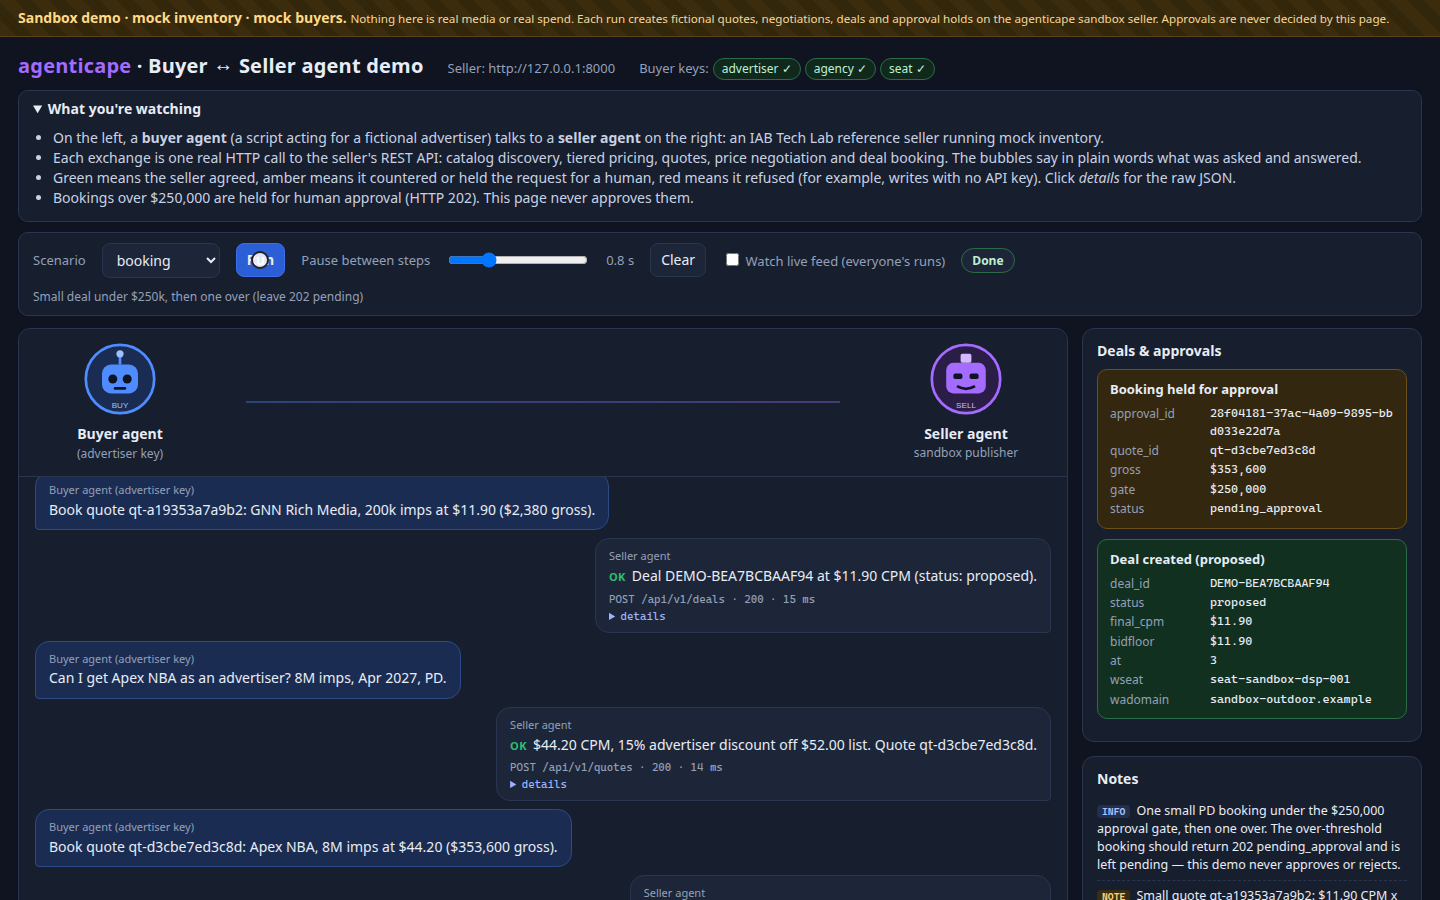
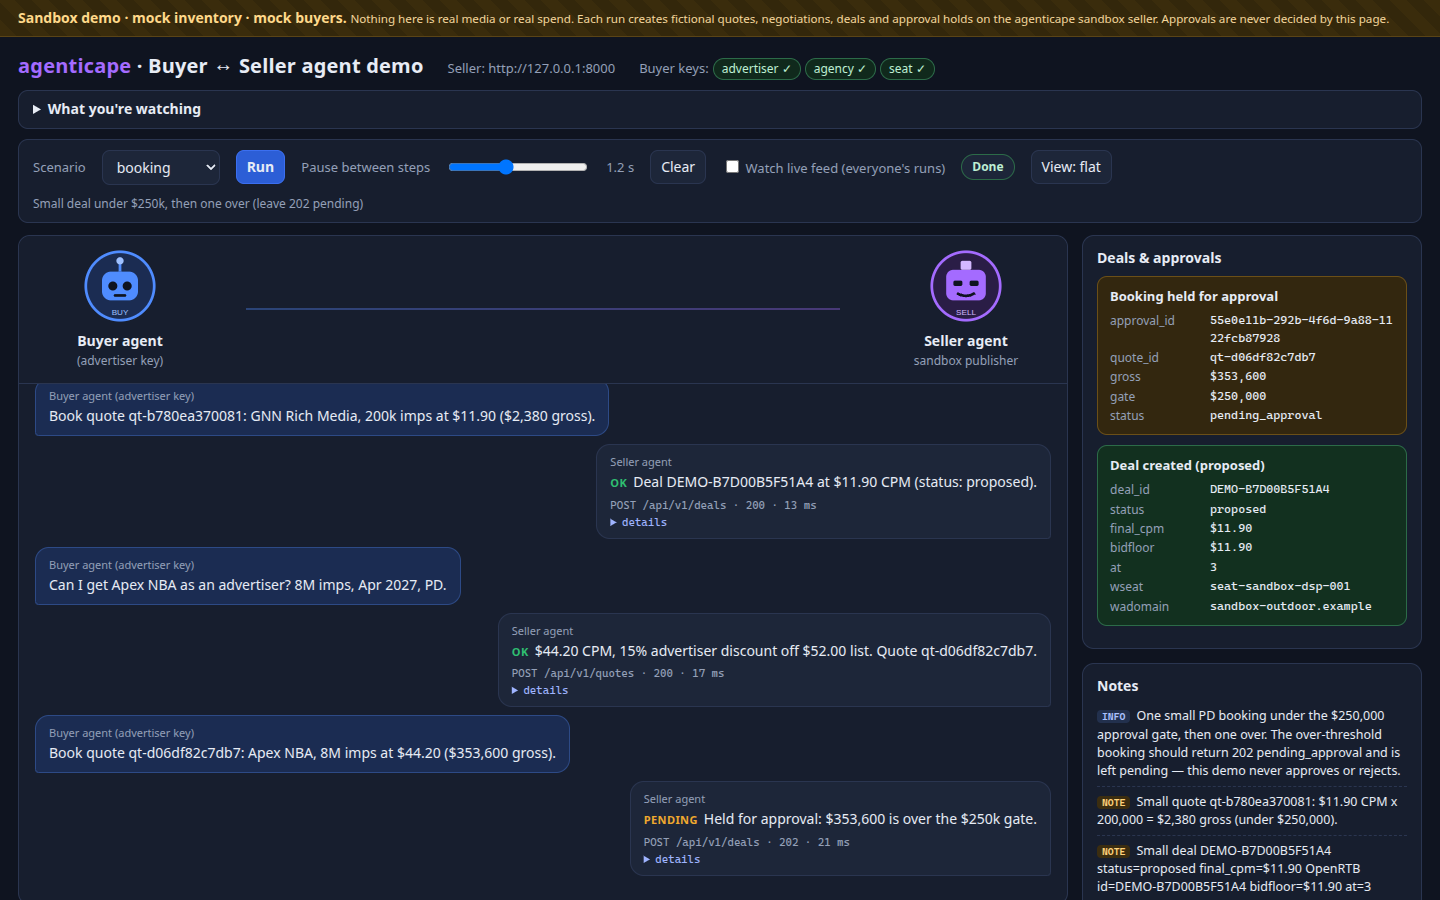
examples/buyer-demo: document the 3D view and refresh screenshots
README and RUN.md describe the blocky 3D default, the View toggle, the
automatic flat fallback without WebGL, reduced motion and the vendored,
offline three.js. DEPLOY.md notes that the image now copies static/.
docs/ui-3d.png is new, and docs/ui-booking.png is refreshed. Both show the
booking scenario against a local mock-only sandbox seller.

Changed region(s): [[0.0, 0.1244, 0.9375, 1.0], [0.75, 0.28, 1.0, 1.0]]

diff --git a/examples/buyer-demo/README.md b/examples/buyer-demo/README.md
@@ -41,17 +41,30 @@ uv run python buyer_demo.py --ui            # opens http://127.0.0.1:8765/
 ```
 
 A local page shows the buyer agent on the left and the seller agent on the
-right. Each HTTP call becomes a pair of speech bubbles in plain words ("Can I
+right. By default they stand on a small blocky 3D island: the buyer in a blue
+suit with a briefcase, the seller behind a market stall. A glowing packet arcs
+between them for each call, booked deals pop onto the stall as gold blocks,
+approval holds appear as padlock blocks, and a refused call gets crossed arms
+and a red X. Drag to turn the camera and scroll to zoom. The **View** button
+switches to the flat 2D chat view, and the page remembers your choice.
+Browsers without WebGL get the flat view automatically.
+
+Each HTTP call becomes a pair of speech bubbles in plain words ("Can I
 get Apex NBA as an advertiser? 8M imps, Apr 2027" / "Held for approval:
 $353,600 is over the $250k gate"), coloured green (agreed), amber (counter or
 held for approval) or red (refused). Under each reply are the method, path,
 status and latency, plus a click-to-expand of the raw request and response.
 A side panel shows deal and approval cards and the running notes. Pick a
 scenario, set the pause between steps (0 to 3 s), and press **Run**. The page
-is plain HTML with no CDN, so it works offline. Keys never reach the browser.
+is plain HTML with no CDN and no build step, so it works offline: three.js r170
+is vendored as one file in `static/` (MIT, licence header kept), and all the
+block and character textures are drawn procedurally in the browser. Keys never
+reach the browser.
 The `runs/` logs are written exactly as for the CLI.
 
-![Buyer demo UI: booking scenario against a local sandbox seller](docs/ui-booking.png)
+![Buyer demo UI, blocky 3D view: booking scenario against a local sandbox seller](docs/ui-3d.png)
+
+![Buyer demo UI, flat view: the same booking scenario](docs/ui-booking.png)
 
 The same page is hosted for anyone at <https://iab-buyer.agenticape.ai>
 (`--serve` mode, with a per-visitor rate limit and a run queue). See

diff --git a/examples/buyer-demo/RUN.md b/examples/buyer-demo/RUN.md
@@ -174,8 +174,14 @@ help and exits.
 
 ## Watch it in the browser (`--ui`)
 
-The same scenarios, shown as a buyer agent and a seller agent talking. Each
-call is a pair of plain-language speech bubbles (green agreed, amber counter
+The same scenarios, shown as a buyer agent and a seller agent talking. The
+default is a blocky 3D view: two box-built characters on a voxel island, a
+glowing packet arcing between them for each call, gold deal blocks on the
+seller's stall, padlock blocks for approval holds and a red X for refusals.
+Drag to turn the camera, scroll to zoom. **View** switches to the flat 2D
+view (remembered in the browser). Without WebGL the flat view is used
+automatically, and with "reduce motion" set in the OS the scene stays still.
+In both views each call is a pair of plain-language speech bubbles (green agreed, amber counter
 or held for approval, red refused), with method, path, status and latency
 underneath and the raw request/response one click away. A side panel shows
 deal and approval cards and the running notes.
@@ -216,7 +222,8 @@ the PowerShell window. Options: `--port 9000` for another port,
 `--no-browser` to only print the URL.
 
 The page is served from your machine only (127.0.0.1) and works offline: no
-CDN, no build step. API keys stay in the Python process; the browser only
+CDN, no build step. three.js is vendored as `static/three.module.min.js`, and
+only the files listed in `demo_ui.STATIC_FILES` are served under `/static/`. API keys stay in the Python process; the browser only
 sees `***REDACTED***` and which tiers have a key. Every run still writes the
 `runs/` markdown and JSON logs, exactly as the CLI does, and the terminal
 shows the usual CLI lines as the run goes.

diff --git a/examples/buyer-demo/deploy/fly/DEPLOY.md b/examples/buyer-demo/deploy/fly/DEPLOY.md
@@ -142,5 +142,7 @@ Plain env (in `fly.toml` `[env]`; change there and redeploy):
 
 ## Updating
 
-Pull `demo/buyer-demo`, then run the same `fly deploy` command. Rotating a
+Pull `demo/buyer-demo`, then run the same `fly deploy` command. The image
+copies `static/` (vendored three.js and the 3D scene) next to `ui.html`, so
+use the Dockerfile from the branch. Rotating a
 seller key is `fly secrets set ...` again; Fly restarts the machine.
